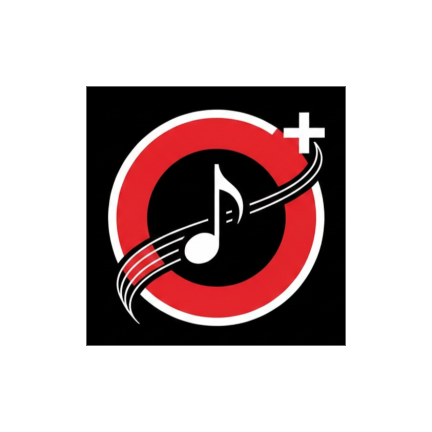
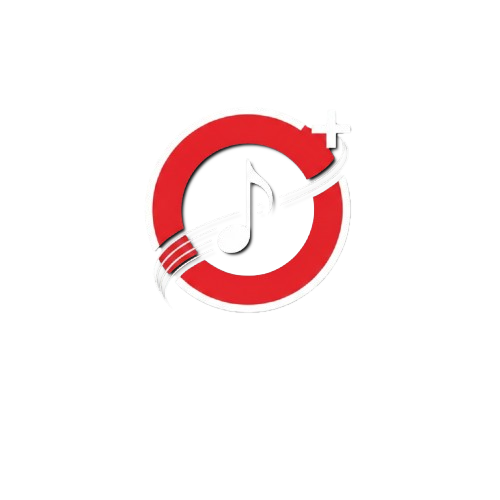
feat: Add visual indicator for the currently playing song
This commit enhances the user interface by providing a visual cue for the song that is currently selected or playing.

- **`SongTile` Updates:**
  - Adds a new boolean property, `isSelected`, to the `SongTile` widget.
  - When `isSelected` is `true`, it displays a `MiniMusicVisualizer` animation next to the song's duration.
  - The visualizer animates only if the `isPlaying` property is also true.

- **`SongsPage` Integration:**
  - The `isSelected` property is now set on each `SongTile` by comparing the song's path with the path of the currently playing song.

- **Assets:**
  - Updates the application icon (`assets/images/icon.png`).

diff --git a/lib/pages/widgets/song_tile.dart b/lib/pages/widgets/song_tile.dart
@@ -1,5 +1,6 @@
 import 'package:audio_metadata_reader/audio_metadata_reader.dart';
 import 'package:flutter/material.dart';
+import 'package:mini_music_visualizer/mini_music_visualizer.dart';
 import 'package:one_music/common/formatter.dart';
 import 'package:one_music/models/one_song.dart';
 import 'package:one_music/theme/theme_extensions.dart';
@@ -8,12 +9,14 @@ class SongTile extends StatelessWidget {
   final OneSong song;
   final void Function() onTap;
   final bool isPlaying;
+  final bool isSelected;
 
   const SongTile({
     super.key,
     required this.song,
     required this.onTap,
     required this.isPlaying,
+    required this.isSelected,
   });
 
   @override
@@ -51,10 +54,19 @@ class SongTile extends StatelessWidget {
               ),
             ),
             Spacer(),
+            isSelected
+                ? MiniMusicVisualizer(
+                    color: context.colorScheme.primary,
+                    width: 3,
+                    animate: isPlaying,
+                    height: 15,
+                  )
+                : SizedBox.shrink(),
+            SizedBox(width: 5),
             Text(
               Formatter.formatDuration(song.data.duration ?? Duration.zero),
               style: TextStyle(
-                fontSize: 11,
+                fontSize: 10,
                 color: context.colorScheme.primary,
               ),
             ),

diff --git a/lib/pages/songs/view.dart b/lib/pages/songs/view.dart
@@ -40,6 +40,9 @@ class SongsPage extends StatelessWidget {
                           children: [
                             SongTile(
                               song: logic.songs[index],
+                              isSelected:
+                                  logic.songs[index].data.file.path ==
+                                  logic.playingSong.value?.data.file.path,
                               onTap: () {},
                               isPlaying: false,
                             ),
